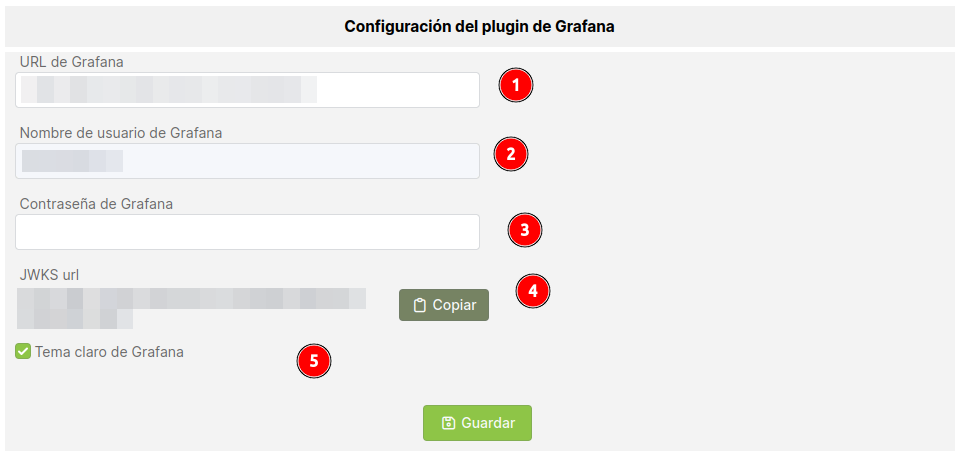
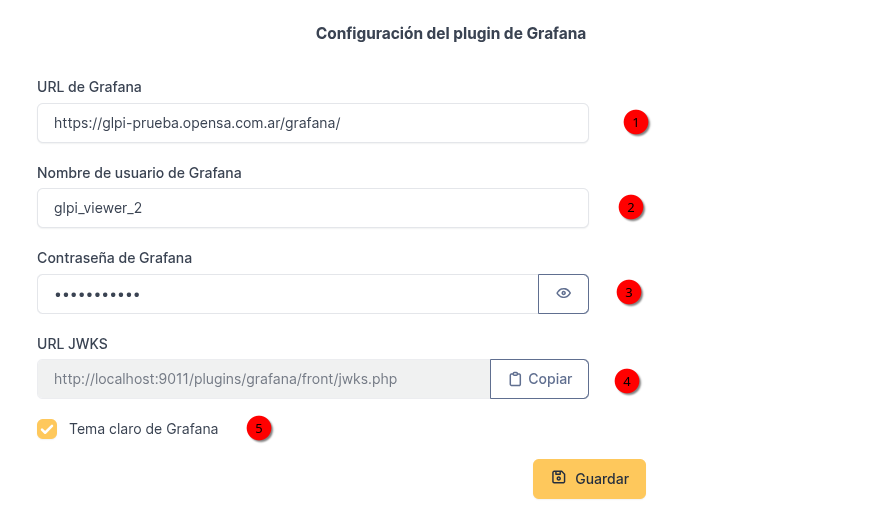
feat: updated workflow file + updated readme

diff --git a/README.md b/README.md
@@ -1,8 +1,36 @@
-## English version 
+# Latest releases
+
+| ------        | GLPI 11 | GLPI 10 |
+|-------------|----------|----------|
+| **Download**| [1.1.0](https://github.com/Open-SA/grafana/releases/tag/1.1.0)   | [1.0.0](https://github.com/Open-SA/grafana/releases/tag/1.0.0)   |
+| **Branch** | main    | support/glpi10  |
+| **Status** | Latest  | Supported |
+
+## English version
 
 # Grafana integration with GLPI
 
 This plugin is a modified version of the [GLPI metabase plugin](https://github.com/pluginsGLPI/metabase) that allows you to embed Grafana dashboards directly into GLPI.
+
+## Requirements
+
+- GLPI 11.x (for GLPI 10.x support, see the `support/glpi10` branch)
+- PHP 8.1+
+- A Grafana instance accessible from the GLPI server
+
+## Installation
+
+1. Download the latest release zip from the [Releases page](../../releases).
+2. Extract the `grafana` folder into `<glpi_root>/plugins/`.
+3. In GLPI: **Setup > Plugins**, find Grafana and click **Install**, then **Enable**.
+
+## Features
+
+- Embed Grafana dashboards directly inside GLPI
+- Granular permissions: assign dashboard access per user, group, profile, or entity
+- Forward GLPI session data to Grafana as URL variables (user, entity, profile, groups, language)
+- Set a default dashboard tab per profile or user
+- Dashboard tree view with folder support
 
 ## Plugin configuration
 
@@ -23,7 +51,7 @@ On the plugin's configuration page, you will need to provide the following infor
 
 You'll need to modify the following parameters in your grafana.ini file.
 
-![allowEmbedding](./docs/screenshots/allowEmbedding.png "Allow embbeding")
+![allowEmbedding](./docs/screenshots/allowEmbedding.png "Allow embedding")
 ![grafana.ini](./docs/screenshots/grafanaConfig.png "grafana.ini")
 
 Most parameters are self-explanatory, but here are a few key points:
@@ -31,14 +59,66 @@ Most parameters are self-explanatory, but here are a few key points:
 5. **Login URL:** Use the **JWKS URL** provided by the Grafana plugin in the previous section (point 4).
 6. **"sub" Parameter:** This must match the **username** you entered in the plugin configuration (point 2).
 
+### Session variables
+
+The plugin can forward GLPI session data to Grafana dashboards as URL variables (`var-*`). This allows Grafana to filter or personalize dashboards based on the logged-in user's context.
+
+On the configuration page, enable the variables you want to forward:
+
+![Session variables config](./docs/screenshots/sessionVarsEn.png "Session variables configuration")
+
+Available variables:
+
+| Variable | Description |
+|---|---|
+| `var-glpi_user_id` | User ID |
+| `var-glpi_username` | Username (login) |
+| `var-glpi_firstname` | First name |
+| `var-glpi_lastname` | Last name |
+| `var-glpi_entity_id` | Active entity ID |
+| `var-glpi_entity_name` | Active entity name |
+| `var-glpi_entity_ids` | All active entity IDs (comma-separated) |
+| `var-glpi_profile_id` | Active profile ID |
+| `var-glpi_profile_name` | Active profile name |
+| `var-glpi_groups` | Groups (comma-separated IDs) |
+| `var-glpi_language` | Language |
+
+To use them in Grafana, create dashboard variables with the same names (without the `var-` prefix).
+
 ### Permissions configuration
 
-Once everything is configured correctly, you can define which dashboards a user profile can see from the **Profiles** configuration page in GLPI.
-![profiles](./docs/screenshots/profileConfigEn.png "Profile configuration")
+Once everything is configured, click the **Permissions** button on the plugin configuration page to open the permissions management page.
+
+From there you can assign dashboard access individually to users, groups, profiles, or entities. Each entry lets you select which specific dashboards are visible.
+
+![Permissions page](./docs/screenshots/permissionsPageEn.png "Permissions management page")
+![Permissions entry](./docs/screenshots/permissionsEntryEn.png "Adding a permissions entry")
+
+---
 
 ## Español
 
 Este plugin es una versión modificada del [plugin de Metabase para GLPI](https://github.com/pluginsGLPI/metabase) que permite incrustar paneles de Grafana directamente en GLPI.
+
+## Requisitos
+
+- GLPI 11.x (para soporte de GLPI 10.x, ver la rama `support/glpi10`)
+- PHP 8.1+
+- Una instancia de Grafana accesible desde el servidor de GLPI
+
+## Instalación
+
+1. Descargar el zip de la última versión desde la [página de Releases](../../releases).
+2. Extraer la carpeta `grafana` dentro de `<raiz_glpi>/plugins/`.
+3. En GLPI: **Configuración > Complementos**, buscar Grafana y hacer clic en **Instalar**, luego en **Activar**.
+
+## Funcionalidades
+
+- Incrustar paneles de Grafana directamente dentro de GLPI
+- Permisos granulares: asignar acceso a paneles por usuario, grupo, perfil o entidad
+- Enviar datos de sesión de GLPI a Grafana como variables de URL (usuario, entidad, perfil, grupos, idioma)
+- Establecer un panel por defecto por perfil o usuario
+- Vista de árbol de paneles con soporte de carpetas
 
 ## Configuración del plugin
 
@@ -49,26 +129,55 @@ En la página de configuración del plugin dentro de GLPI, necesitarás proporci
 ![Plugin config page](./docs/screenshots/configPage.png "Plugin config page")
 
 <ol>
-  <li><b>URL de Grafana:</b>La URL del servidor de Grafana al que deseas conectarte.</li>
-  <li>& 3.<b>Credenciales de Grafana:</b>El <b>nombre de usuario</b> y la <b>contraseña</b> de un usuario de Grafana. El plugin utilizará esta cuenta para conectarse a la API, obtener la lista de paneles y autenticar a los usuarios para que puedan verlos dentro de GLPI. Se puede controlar qué paneles aparecen limitando los permisos de este usuario directamente en Grafana.</li>
-  <li value="4"><b>URL del JWKS:</b>Esta URL será necesaria más adelante cuando configures la autenticación en Grafana.</li>
-  <li><b>Usar Tema Claro:</b>Marcar esta casilla para que el plugin utilice el tema claro de Grafana en lugar del tema oscuro por defecto.</li>
+  <li><b>URL de Grafana:</b> La URL del servidor de Grafana al que deseas conectarte.</li>
+  <li>& 3. <b>Credenciales de Grafana:</b> El <b>nombre de usuario</b> y la <b>contraseña</b> de un usuario de Grafana. El plugin utilizará esta cuenta para conectarse a la API, obtener la lista de paneles y autenticar a los usuarios para que puedan verlos dentro de GLPI. Se puede controlar qué paneles aparecen limitando los permisos de este usuario directamente en Grafana.</li>
+  <li value="4"><b>URL del JWKS:</b> Esta URL será necesaria más adelante cuando configures la autenticación en Grafana.</li>
+  <li><b>Usar Tema Claro:</b> Marcar esta casilla para que el plugin utilice el tema claro de Grafana en lugar del tema oscuro por defecto.</li>
 </ol>
 
 ### Configuración del servidor Grafana
 
 A continuación, se deben modificar los siguientes parámetros en tu archivo grafana.ini.
 
-![allowEmbedding](./docs/screenshots/allowEmbedding.png "Permitir incrustación")  
+![allowEmbedding](./docs/screenshots/allowEmbedding.png "Permitir incrustación")
 ![grafana.ini](./docs/screenshots/grafanaConfig.png "grafana.ini")
 
 La mayoría de los parámetros son autoexplicativos, algunas notas:
 - Tener en cuenta que la opción **allow_embedding** no se encuentra en el mismo bloque de configuración que las demás.
 5. **url_login:** Utiliza la URL proporcionada por el plugin en la sección anterior (punto 4).
-6. **parámetro sub:** Debe coincidir con el **nombre de usuario** que ingresaste en la configuración del plugin (punto 2).  
+6. **parámetro sub:** Debe coincidir con el **nombre de usuario** que ingresaste en la configuración del plugin (punto 2).
+
+### Variables de sesión
+
+El plugin puede enviar datos de la sesión de GLPI a los paneles de Grafana como variables de URL (`var-*`). Esto permite que Grafana filtre o personalice los paneles según el contexto del usuario conectado.
+
+En la página de configuración, activar las variables que se quieran enviar:
+
+![Configuración de variables de sesión](./docs/screenshots/sessionVars.png "Configuración de variables de sesión")
+
+Variables disponibles:
+
+| Variable | Descripción |
+|---|---|
+| `var-glpi_user_id` | ID de usuario |
+| `var-glpi_username` | Nombre de usuario (login) |
+| `var-glpi_firstname` | Nombre |
+| `var-glpi_lastname` | Apellido |
+| `var-glpi_entity_id` | ID de entidad activa |
+| `var-glpi_entity_name` | Nombre de entidad activa |
+| `var-glpi_entity_ids` | Todos los IDs de entidades activas (separados por coma) |
+| `var-glpi_profile_id` | ID de perfil activo |
+| `var-glpi_profile_name` | Nombre de perfil activo |
+| `var-glpi_groups` | Grupos (IDs separados por coma) |
+| `var-glpi_language` | Idioma |
+
+Para usarlas en Grafana, crear variables de dashboard con los mismos nombres (sin el prefijo `var-`).
 
 ### Configuración de permisos
 
-Una vez que todo esté configurado correctamente, se puede definir qué paneles puede ver cada perfil de usuario desde la página de configuración de **Perfiles** en GLPI.
+Una vez configurado todo, hacer clic en el botón **Permisos** de la página de configuración del plugin para abrir la página de gestión de permisos.
 
-![profiles](./docs/screenshots/profileConfig.png "Configuración de perfil")
+Desde ahí se puede asignar acceso a paneles individualmente a usuarios, grupos, perfiles o entidades. Cada entrada permite seleccionar qué paneles específicos son visibles.
+
+![Página de permisos](./docs/screenshots/permissionsPage.png "Página de gestión de permisos")
+![Entrada de permisos](./docs/screenshots/permissionsEntry.png "Agregar una entrada de permisos")
